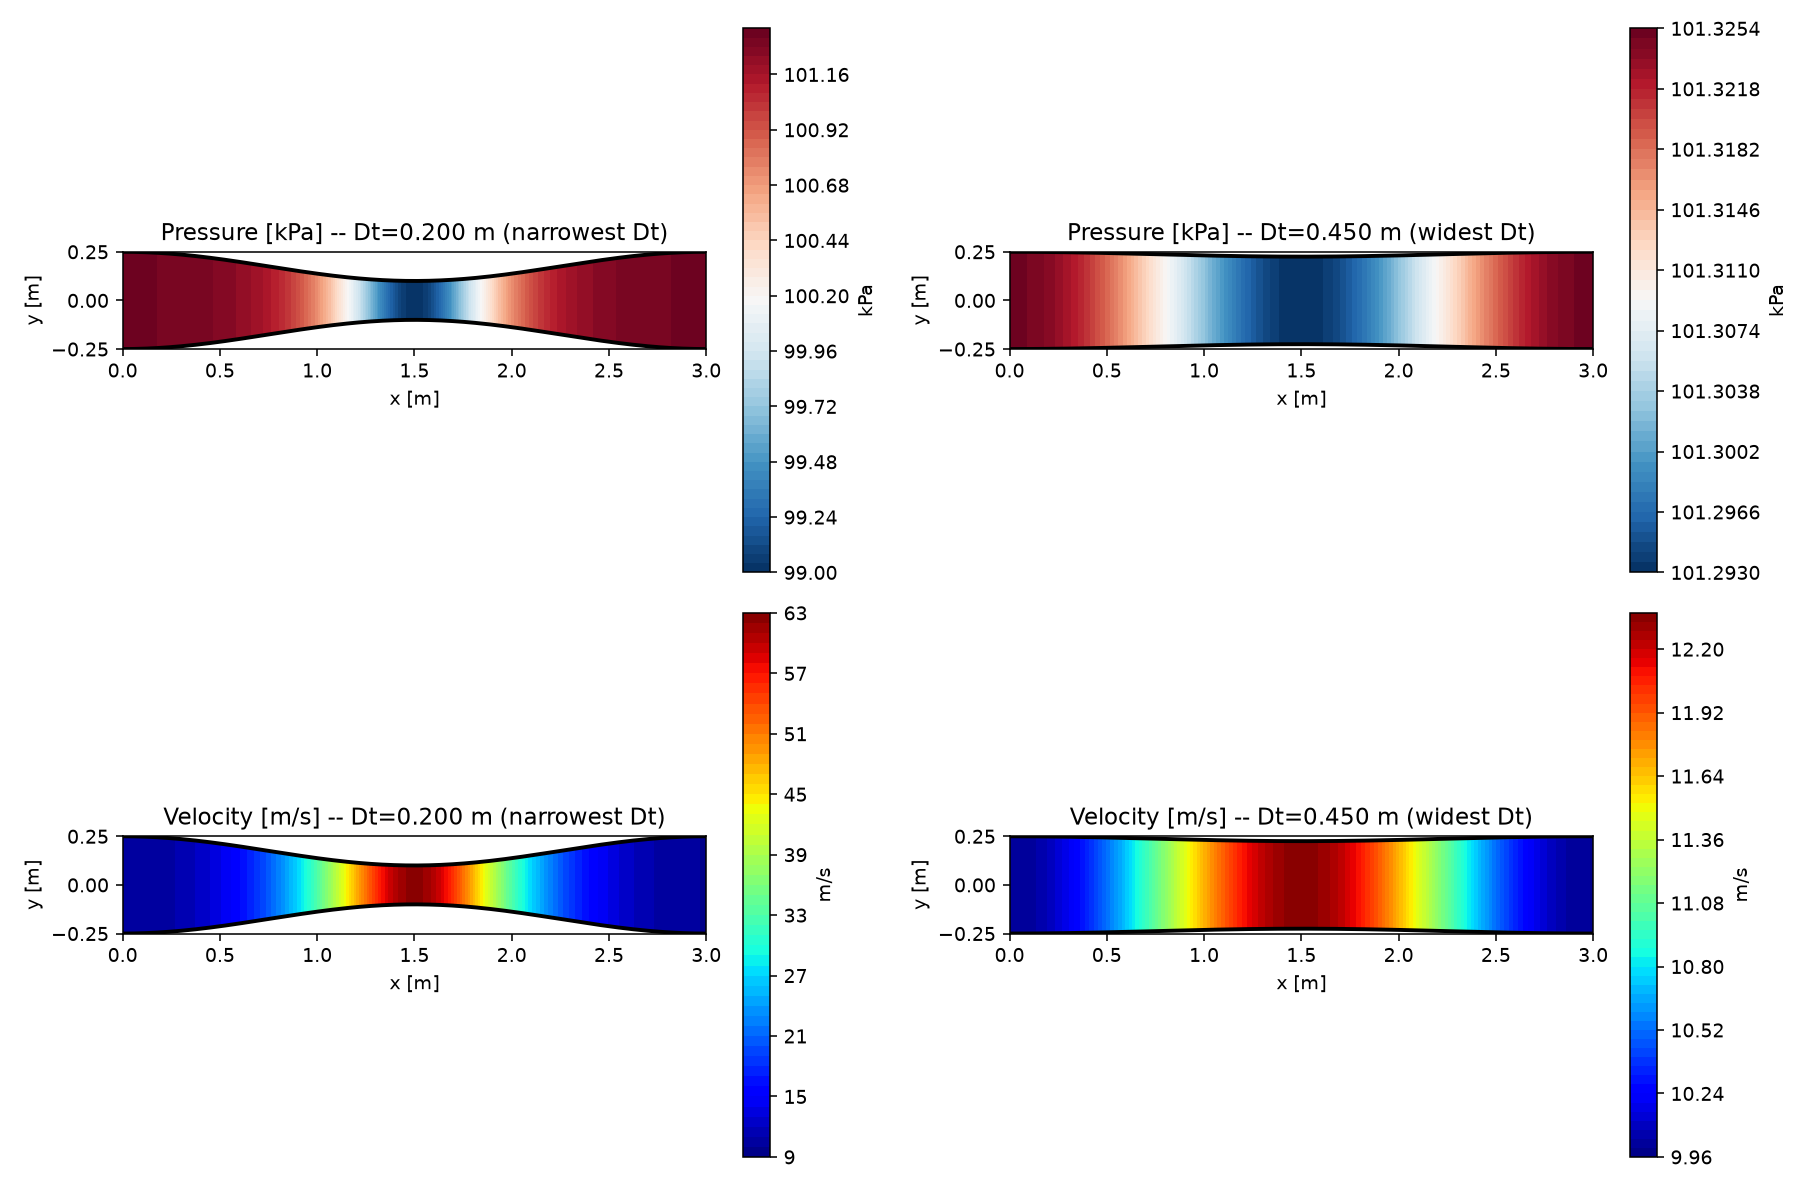
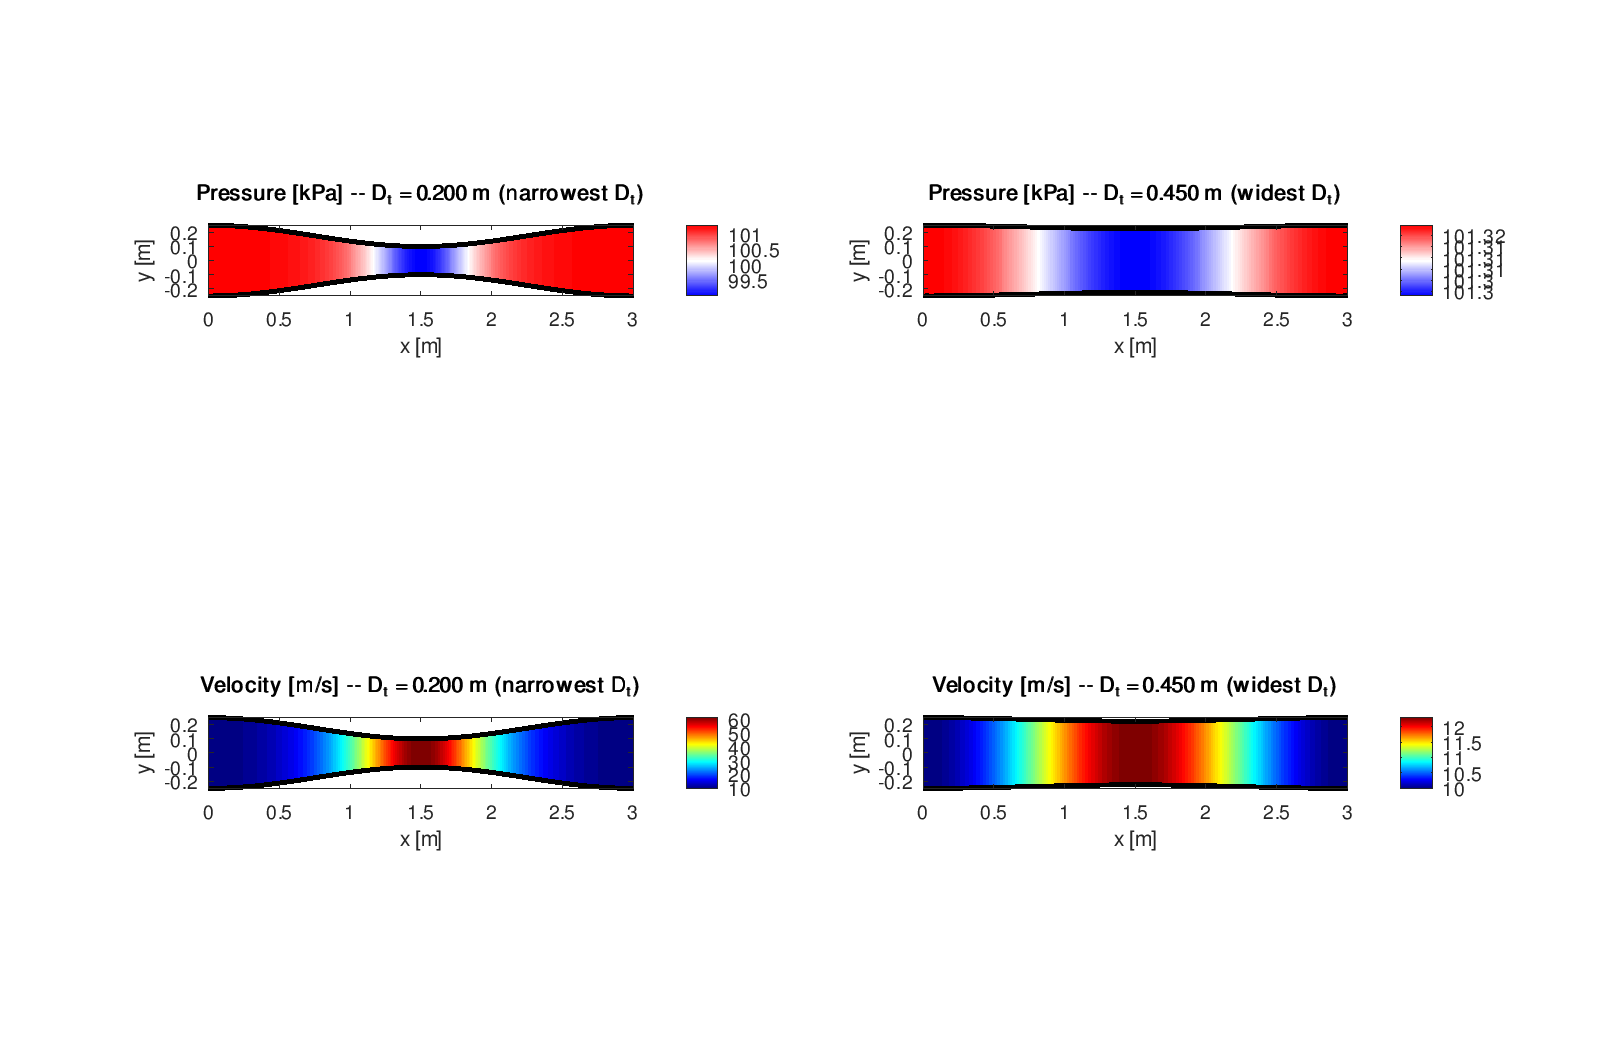
Replace simulated MATLAB preview with real Octave output
Installed GNU Octave (MATLAB-compatible, via winget) on this machine and
actually ran postprocessing/matlab/load_and_plot.m, unmodified -- it
executes cleanly (one harmless graphics-toolkit notice, no errors).
Replaced the earlier Python-reproduction preview image with the real
rendered output, and added the script's second figure (design-space
sweep + relative-error contours) as well. Both PINN-vs-exact curves
overlay almost exactly, consistent with the training gate numbers in the
Status section.

Changed region(s): [[0.0, 0.0, 0.9651, 0.9752], [0.4981, 0.5181, 0.9651, 0.9752], [0.9651, 0.2438, 0.9963, 0.2743]]

diff --git a/README.md b/README.md
@@ -621,9 +621,13 @@ The 1D surrogate field is reconstructed into a **2D axisymmetric field** for rea
 
 The duct-shape contour plots reconstruct the same axisymmetric field the Python `colored_cfd_fields.png` uses (README §10): every axial station's `D` gives the duct's local half-width, `V`/`P` are painted across that width uniformly (plug flow — quasi-1D has no radial variation to show), and the duct wall is drawn on top from the same `D` array:
 
-![MATLAB reconstruction of the CFD-style contours -- pressure and velocity fields at the narrowest and widest throat diameters, in the actual duct shape](docs/images/matlab_contour_preview.png)
+![MATLAB/Octave: CFD-style filled contours -- pressure and velocity fields at the narrowest and widest throat diameters, in the actual duct shape](docs/images/matlab_contour_preview.png)
 
-*(This particular image was rendered in Python from the same `.mat` file, reproducing `load_and_plot.m`'s exact array operations, as a way to verify that script's logic without a MATLAB license on hand — see the file's own comments for the identical array construction.)*
+And the second figure `load_and_plot.m` produces — the design-space sweep and relative-error maps:
+
+![MATLAB/Octave: throat velocity/pressure vs throat diameter, and relative-error contours over the whole design space](docs/images/matlab_sweep_preview.png)
+
+*(Both images are the actual, unmodified output of running `postprocessing/matlab/load_and_plot.m` — GNU Octave, MATLAB-compatible, installed on this machine specifically to confirm the script runs correctly rather than just verifying its logic in isolation.)*
 
 ---
 
